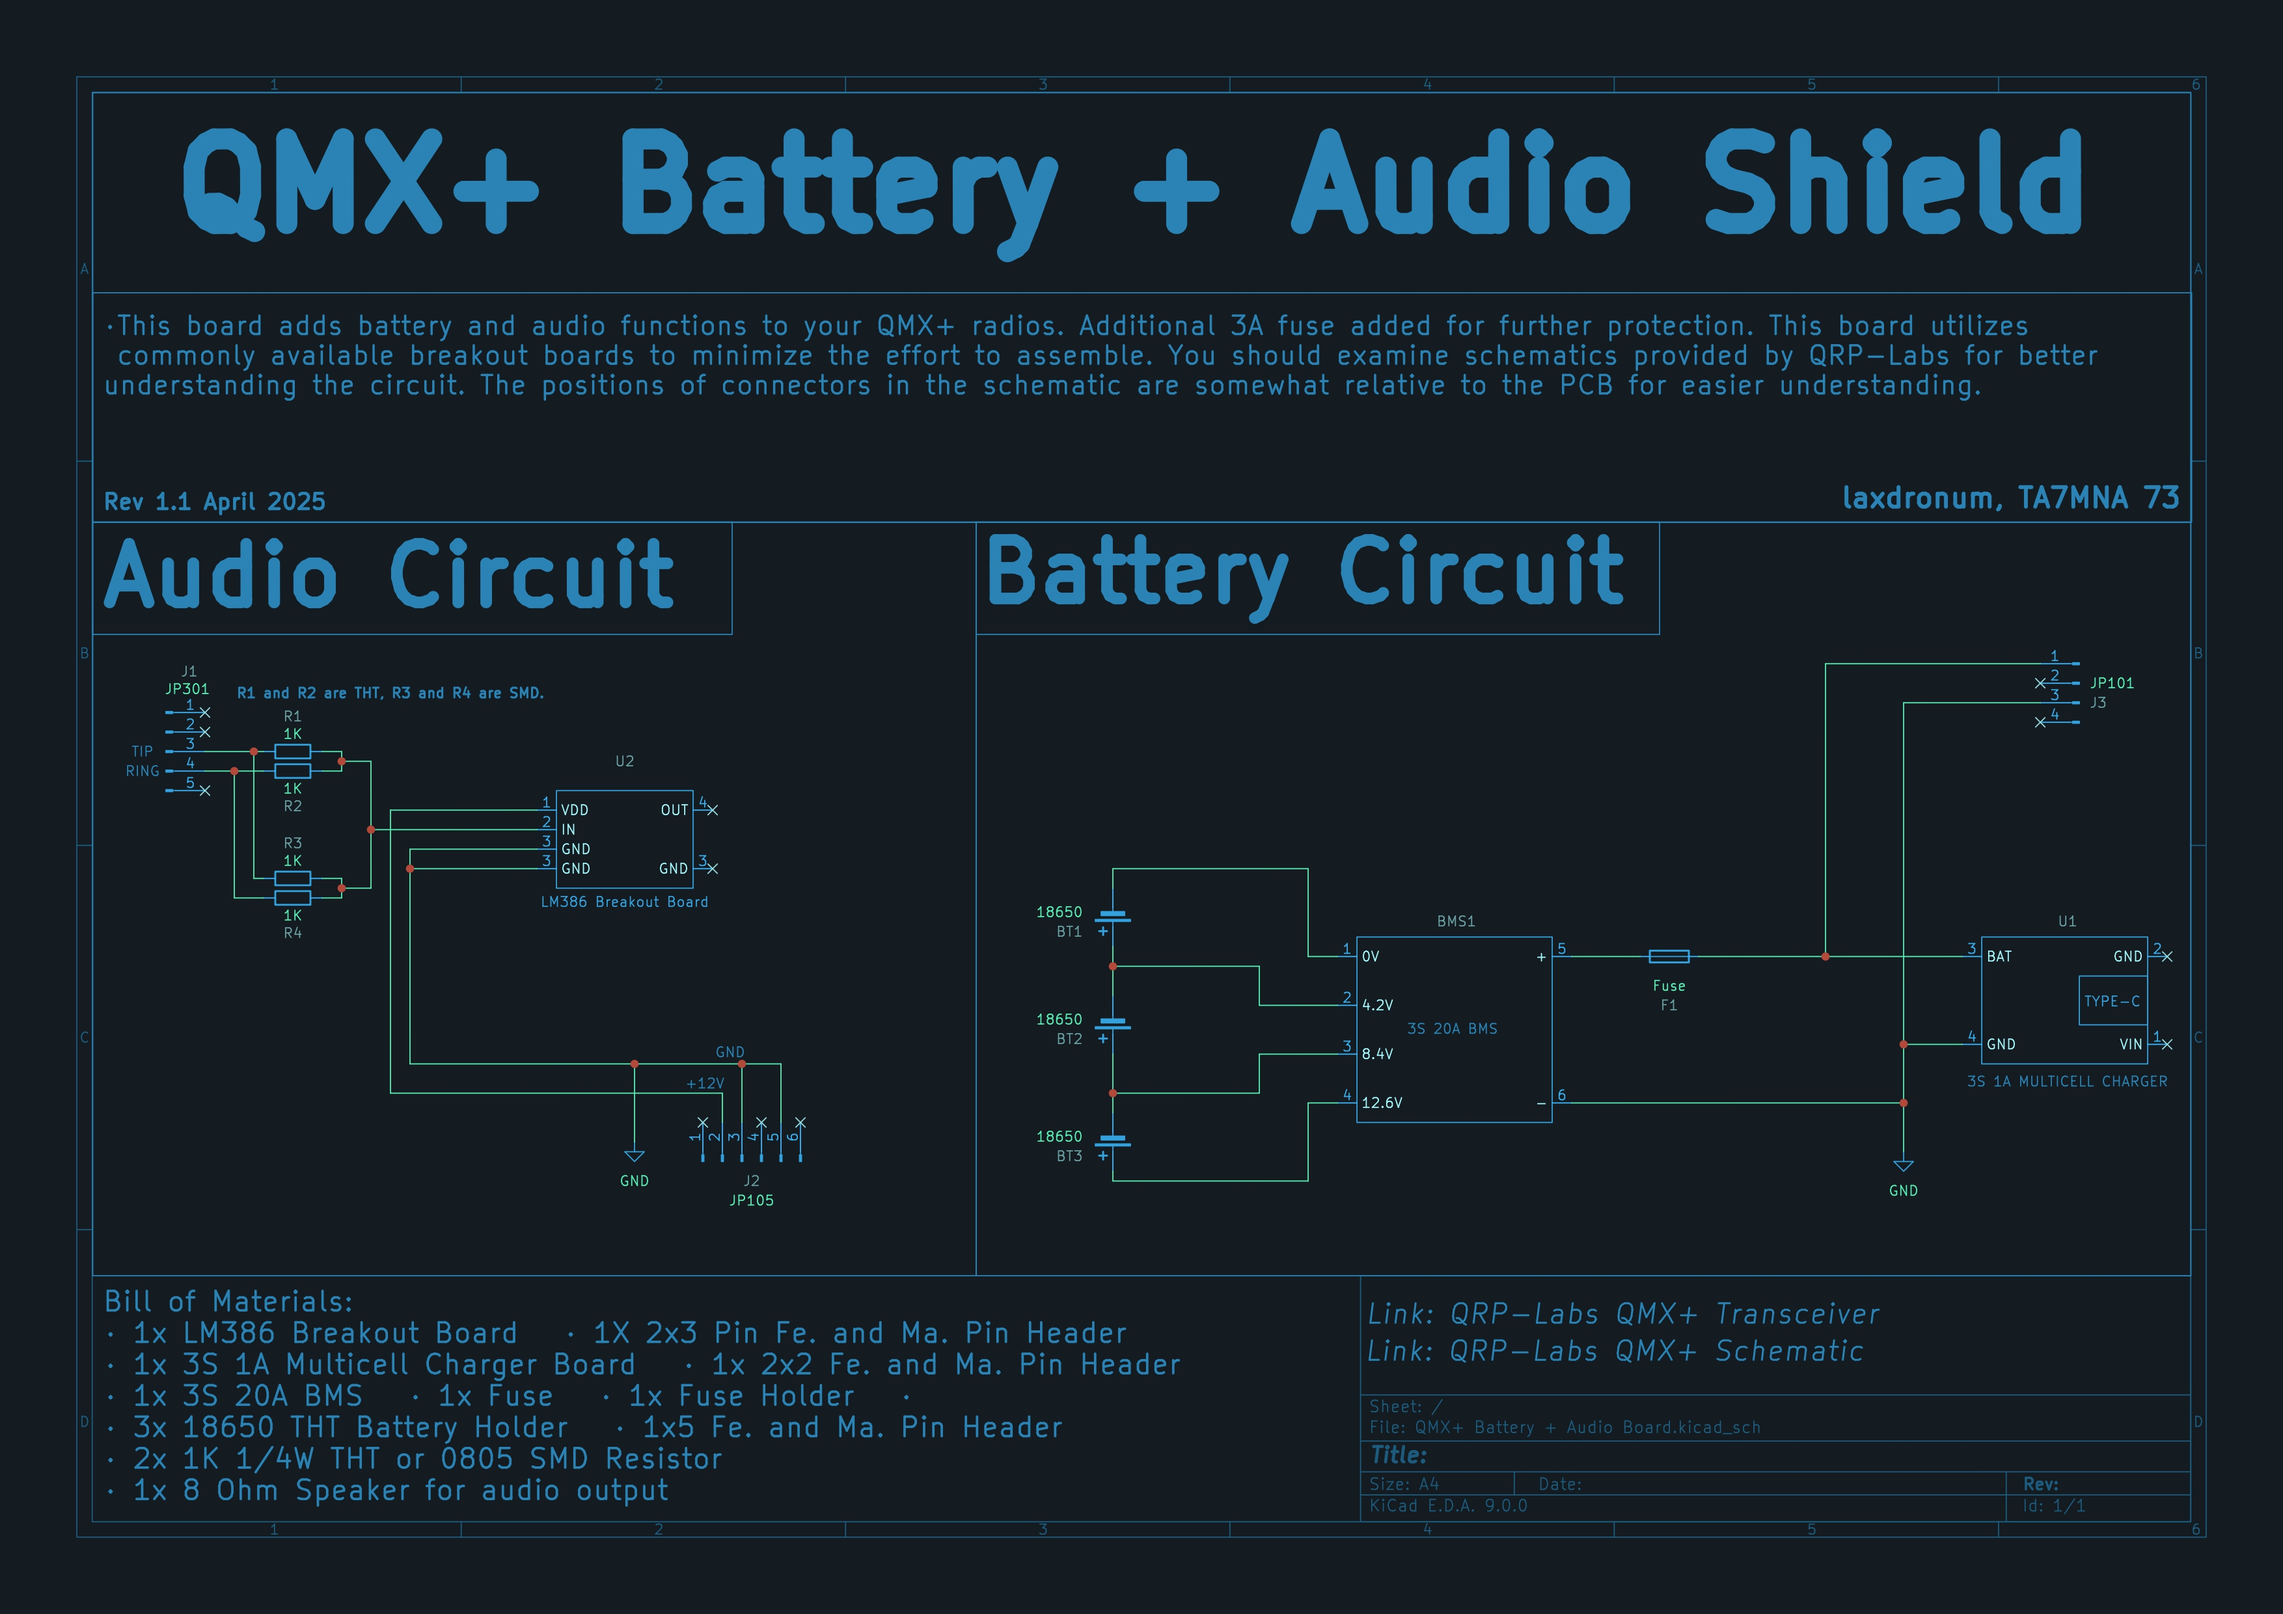
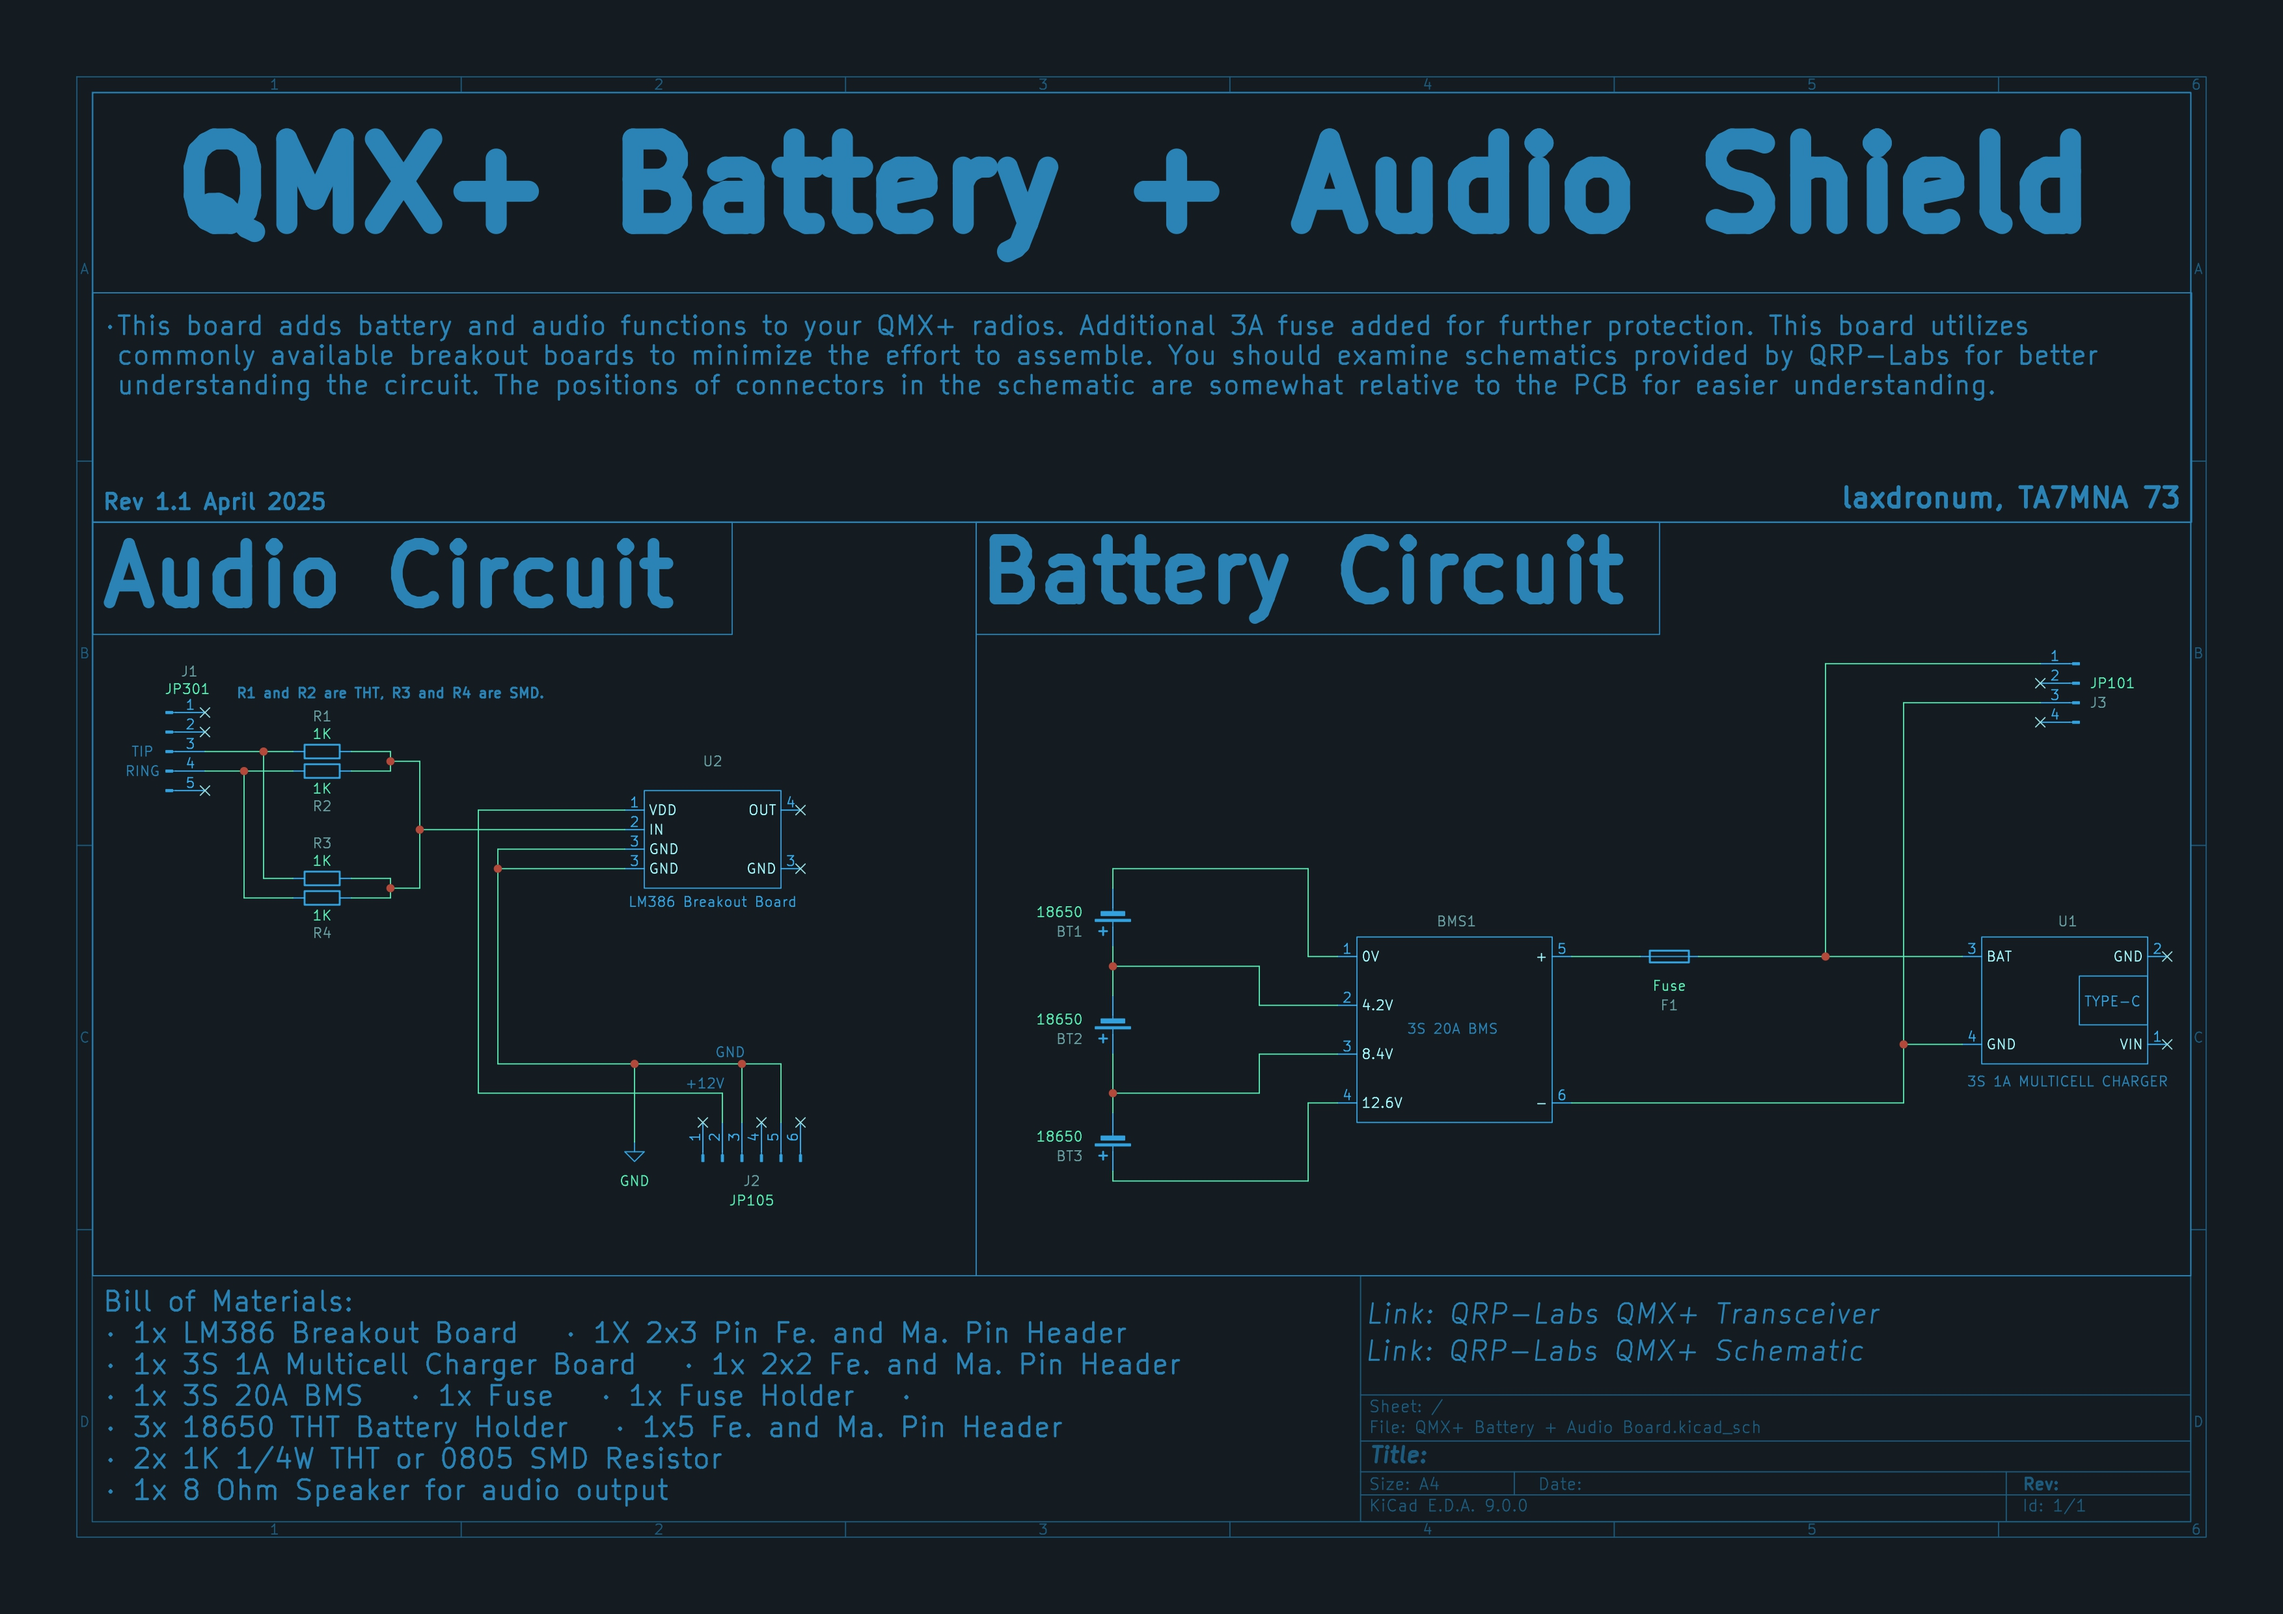
Schematic Update

Changed region(s): [[0.0621, 0.2173, 0.87, 0.2483], [0.0932, 0.4345, 0.1864, 0.5897], [0.2175, 0.4966, 0.3418, 0.5586]]

diff --git a/README.md b/README.md
@@ -1,6 +1,6 @@
 # QMX+ Battery & Audio Board
 
-This project is a custom battery and audio module designed for the QRP-Labs QMX+ transceiver. The module is designed to be directly mounted on the existing circuitry inside the QMX+ for seamless integration. 
+This project is a custom battery and audio module designed for the QRP-Labs QMX+ transceiver. The module is designed to be directly mounted on the existing circuitry inside the QMX+.
 
 ## Features
 - Integrated battery power supply
@@ -42,7 +42,7 @@ This project is a custom battery and audio module designed for the QRP-Labs QMX+
 |---------|---------|---------|
 | ![3S 1A Multicell Charger Board](Images/3S%201A%20Multicell%20Charger%20Board.jpg) | ![LM386 Audio Amplifier Breakout Board](Images/LM386%20Breakout%20Board.jpg) | ![3S 20A BMS](Images/3S%2020A%20BMS.jpeg) |
 
-## Assembly and Calibration
+## Assembly, Calibration and Notes
 
 ### Assembly
 
@@ -62,10 +62,15 @@ You should mark and drill the back plate after you screw the board to the mainbo
 
 ![Assembling Modules](https://github.com/laxdronum/QMX-Plus-Battery-and-Audio-Board/blob/main/Images/Assembling%20Modules.jpeg)
 
+**Note : Images above include *Rev. 1* which is the prototype version of this board. Assembly guide is identical to the *Rev. 1.1* The main difference between these revisions is switch option to change between charge and operation mode which is found unnecessary during testing. Minor silkscreen changes and footprint changes also made.**
+
 ### Audio Calibration
 
 After assembly and testing that your radio works you must calibrate the audio.
 
 To calibrate the audio you must first lower the volume as down as you can using the volume knob of the radio. Then you must turn the variable resistor found on the audio board until you can hear the audio coming from the speaker barely. Audio is calibrated you should use the volume knob from now on.
 
-**Note : Images above include *Rev. 1* which is the prototype version of this board. Assembly guide is identical to the *Rev. 1.1* The main difference between these revisions is switch option to change between charge and operation mode which is found unnecessary during testing. Minor silkscreen changes and footprint changes also made.**
+### Notes
+
+If you power the radio with DC jack while battery pack is installed QMX+ will disconnect the batterries from radio. You can only charge the batterries from the Type-C port.
+
